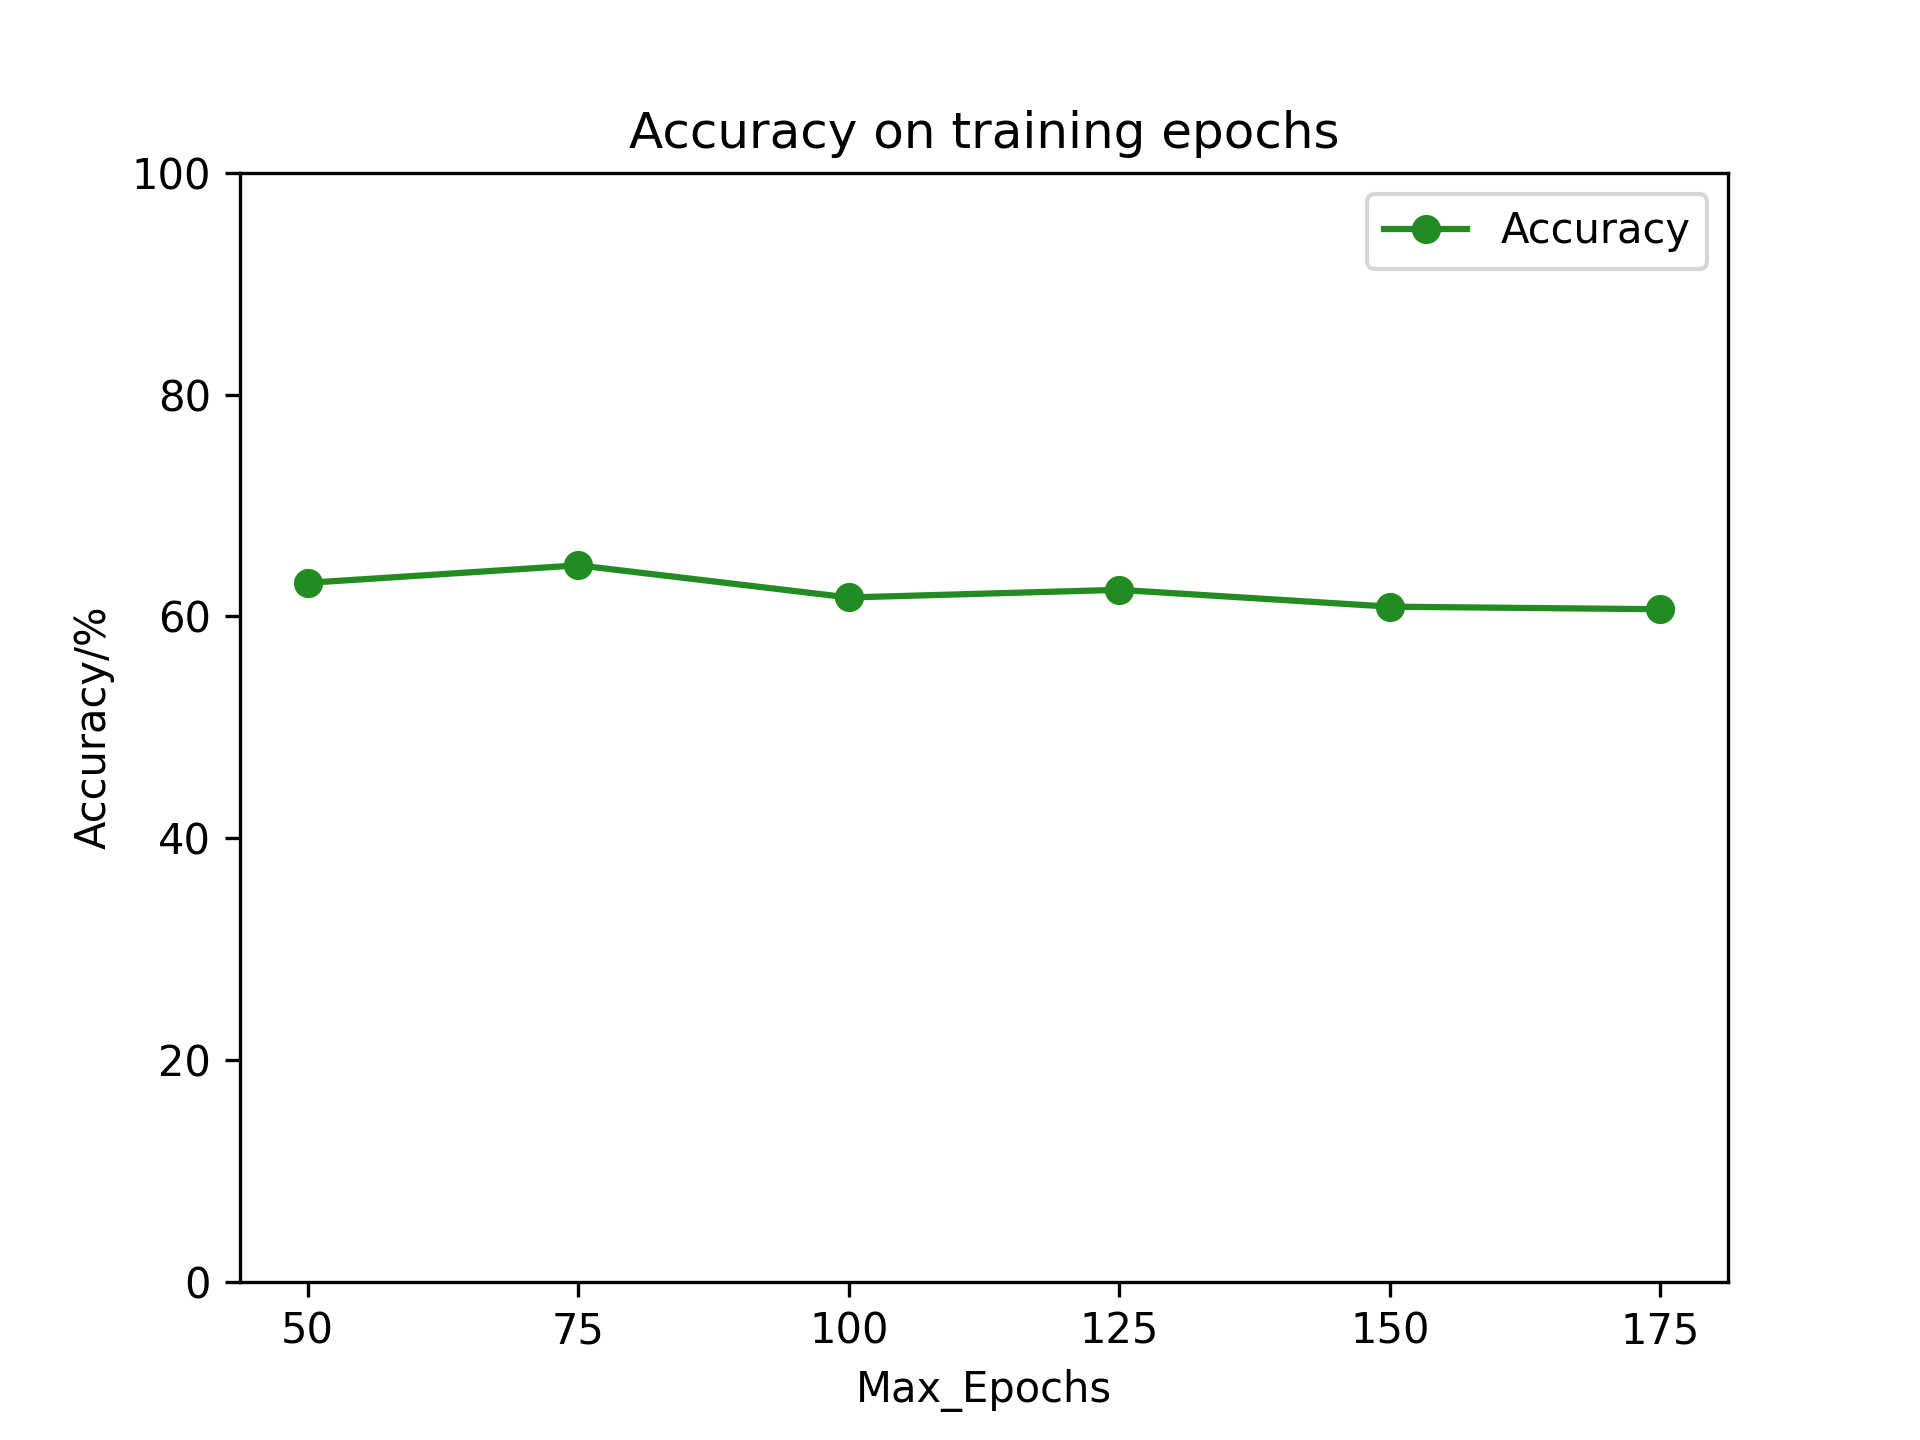
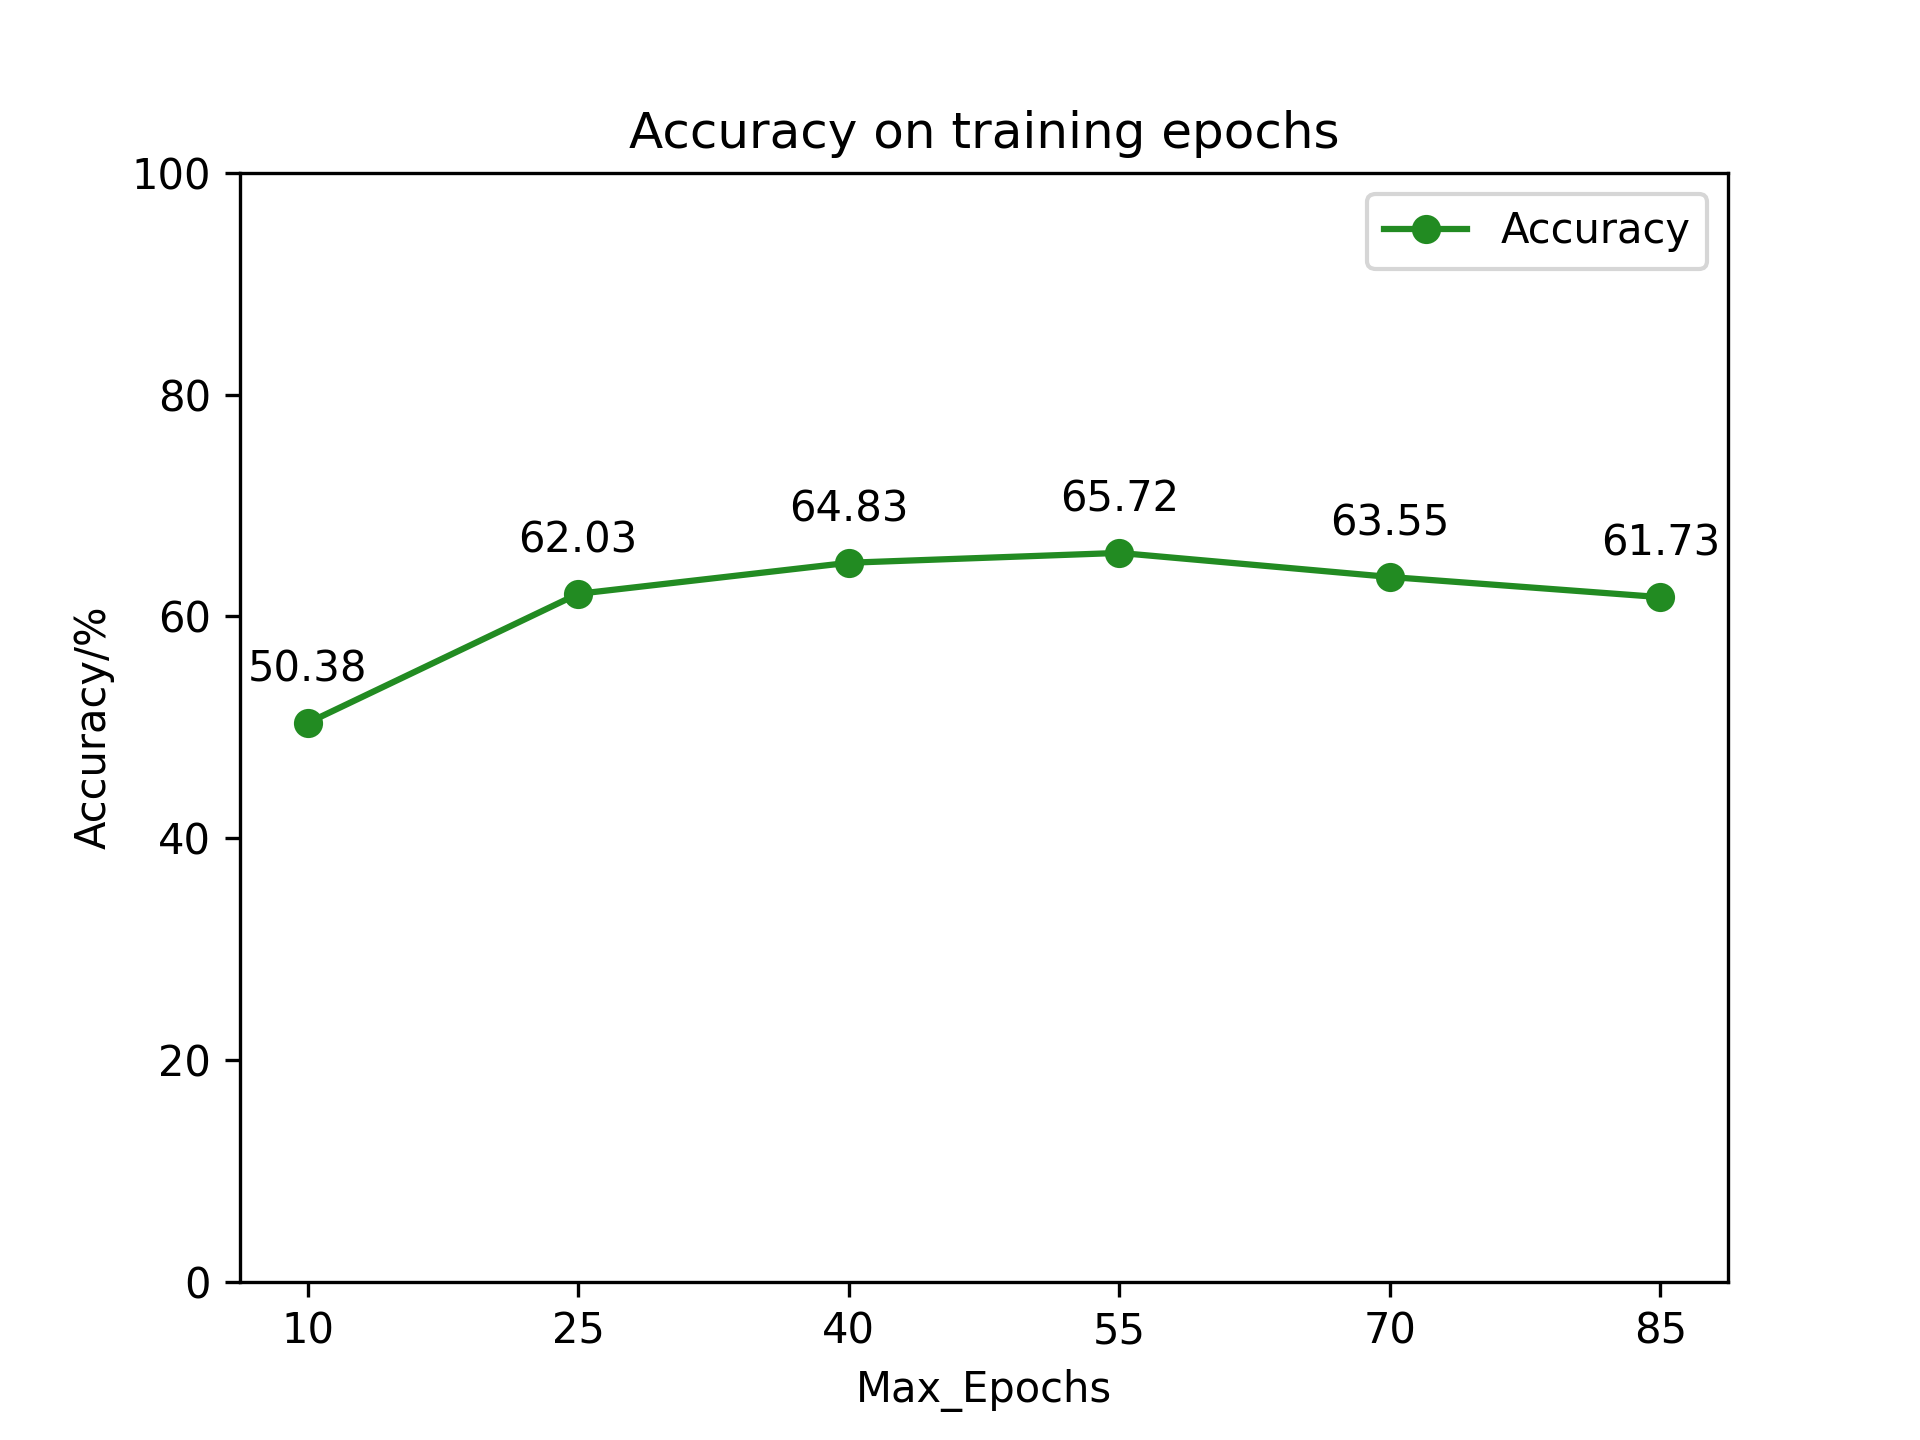
LeNet:Basic code finished

diff --git a/LeNet/main.py b/LeNet/main.py
@@ -1,18 +1,25 @@
 from LeNet import LeNet5
 import matplotlib.pyplot as plt
 
-if __name__=='__main__':
-    iterations = [25*i+50 for i in range(6)]
+def compare_max_trains():
+    iterations = [15 * i + 10 for i in range(6)]
     accuracy = []
     for i in iterations:
-        net=LeNet5()
+        net = LeNet5()
         net.train(i)
         accuracy.append(net.test())
-    plt.plot(iterations,accuracy,label='Accuracy',marker='o',color='#228B22')
+    plt.plot(iterations, accuracy, label='Accuracy', marker='o', color='#228B22')
+    for i in range(len(iterations)):
+        plt.annotate(f'{accuracy[i]:.2f}', (iterations[i], accuracy[i]), textcoords='offset points', xytext=(0, 10),
+                     ha='center')
     plt.title('Accuracy on training epochs')
     plt.xlabel('Max_Epochs')
     plt.ylabel('Accuracy/%')
-    plt.ylim(0,100)
+    plt.ylim(0, 100)
     plt.xticks(iterations)
     plt.legend()
-    plt.savefig('result.png',dpi=300)
+    plt.savefig('result.png', dpi=300)
+
+
+if __name__=='__main__':
+    pass

diff --git a/LeNet/LeNet.py b/LeNet/LeNet.py
@@ -1,17 +1,14 @@
-import torch
 import torch.nn as nn
 import torch.optim as optim
-import torchvision
-import torchvision.transforms as transforms
 from constants import *
 
 class LeNet5(nn.Module):
-    def __init__(self):
+    def __init__(self,kern_size=5):
         super(LeNet5, self).__init__()
-        self.conv1 = nn.Conv2d(3, 6, 5)
+        self.conv1 = nn.Conv2d(3, 6, kern_size)
         self.pool = nn.MaxPool2d(2, 2)
-        self.conv2 = nn.Conv2d(6, 16, 5)
-        self.fc1 = nn.Linear(16*25, 120)
+        self.conv2 = nn.Conv2d(6, 16, kern_size)
+        self.fc1 = nn.Linear(16*kern_size*kern_size, 120)
         self.fc2 = nn.Linear(120, 84)
         self.fc3 = nn.Linear(84, 10)  # 10 classes in CIFAR-10
         self.dataset=DATASET()

diff --git a/LeNet/constants.py b/LeNet/constants.py
@@ -2,7 +2,7 @@ import torch
 import torchvision
 import torchvision.transforms as transforms
 
-MAX_TRAIN=200
+MAX_TRAIN=55
 
 
 class DATASET:
